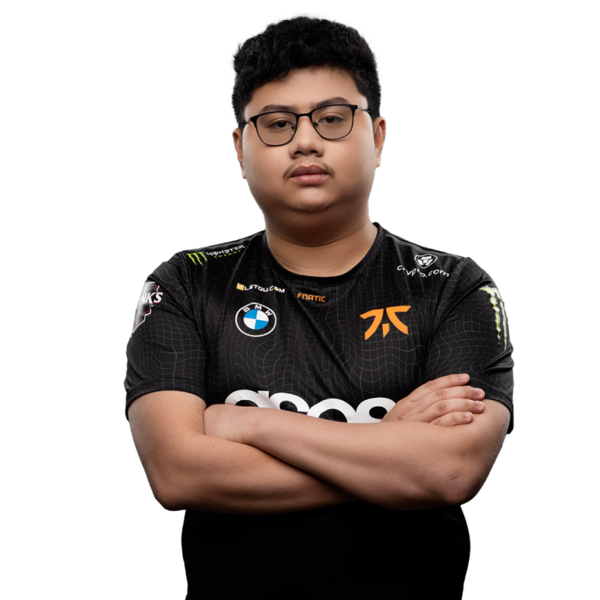
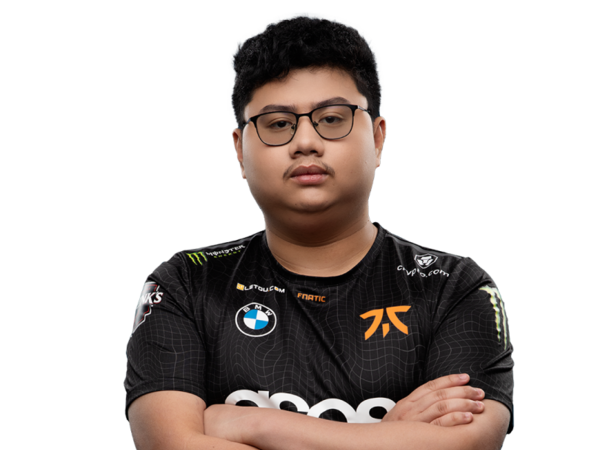
* added 1 streamer * updated image of 1 streamer

diff --git a/resources/js/components/Home/StreamerSection.vue b/resources/js/components/Home/StreamerSection.vue
@@ -138,7 +138,7 @@ export default {
                     id: 1,
                     name: 'Gabbi',
                     nameIcon: '',
-                    tags: ['Professional Dota 2 Player', 'Position 1 | Carry', 'Major Champion', 'WESG Champion'],
+                    tags: ['Professional Dota 2 Player', 'Position 1 | Carry', 'Major Champion', 'TI Player', 'WESG Champion'],
                     description: 'Filipino Dota 2 core player known for explosive teamfight impact and international success.',
                     followers: 80800,
                     kickLink: 'https://kick.com/gabbidoto',
@@ -150,7 +150,7 @@ export default {
                     id: 2,
                     name: 'Kuku',
                     nameIcon: '',
-                    tags: ['GodFather of PH Dota 2','Professional Dota 2 Player', 'Position 5 | Hard Support', 'WESG Champion'],
+                    tags: ['GodFather of PH Dota 2','Professional Dota 2 Player', 'Position 5 | Hard Support', 'Top 7 TI', 'WESG Champion'],
                     description: 'Veteran Filipino Dota 2 captain known for elite leadership, strong shot-calling, and international success.',
                     followers: 69000,
                     kickLink: 'https://kick.com/kukudota2',
@@ -162,14 +162,14 @@ export default {
                     id: 3,
                     name: 'Armel',
                     nameIcon: '',
-                    tags: ['Professional Dota 2 Player', 'Position 2 | Midlaner', 'Major Champion', 'WESG Champion'],
+                    tags: ['Professional Dota 2 Player', 'Position 2 | Midlaner', 'Major Champion', 'TI Player', 'WESG Champion'],
                     description: 'Filipino Dota 2 mid player known for high-level mechanics and international success.',
                     followers: 66600,
                     kickLink: 'https://kick.com/armeldoto',
                     websiteLink: 'https://armeldota.com/',
                     isLive: false,
                     icon: 'fab fa-kickstarter',
-                    image: 'images/kukuys_streamer/armel.jpg'
+                    image: 'images/kukuys_streamer/armel.png'
                 },{
                     id: 4,
                     name: 'DJ',
@@ -306,7 +306,7 @@ export default {
                     id: 15,  
                     name: 'Natsumi',
                     nameIcon: '',
-                    tags: ['Professional Dota 2 Player', 'Position 1 | Carry', 'Riyadh Player', 'Carry for OG'],
+                    tags: ['Professional Dota 2 Player', 'Riyadh Player', 'Carry for OG'],
                     description: 'Filipino Dota 2 carry known for sharp mechanics, strategic farming, and international experience.',
                     followers: 33600,
                     kickLink: 'https://kick.com/natsumidota',
@@ -318,7 +318,7 @@ export default {
                     id: 16,  
                     name: 'Nikko',
                     nameIcon: '',
-                    tags: ['Professional Dota 2 Player', 'Position 3 | Offlane', 'Riyadh Player', 'Offlane for OG'],
+                    tags: ['Professional Dota 2 Player', 'Riyadh Player', 'Offlane for OG'],
                     description: 'Filipino Dota 2 offlaner recognized for impactful teamfight presence and international experience.',
                     followers: 24200,
                     kickLink: 'https://kick.com/nikkodota2',
@@ -330,7 +330,7 @@ export default {
                     id: 17,  
                     name: 'Skem',
                     nameIcon: '',
-                    tags: ['Professional Dota 2 Player', 'Position 5 | Hard Support', 'TI Player', 'Riyadh Player', 'Hard Support for OG'],
+                    tags: ['Professional Dota 2 Player', 'TI Player', 'Riyadh Player', 'Hard Support for OG'],
                     description: 'Filipino Dota 2 support known for smart plays, solid vision control, and international experience.',
                     followers: 14700,
                     kickLink: 'https://kick.com/skemdota123',
@@ -339,7 +339,19 @@ export default {
                     icon: 'fab fa-kickstarter',
                     image: 'images/kukuys_streamer/skem.jpg'
                 },{
-                    id: 18,  
+                    id: 18,
+                    name: 'Tims',
+                    nameIcon: '',
+                    tags: ['Professional Dota 2 Player', 'Major Champion', 'Top 7 TI', 'WESG Champion', 'Soft Support for OG'],
+                    description: 'Filipino Dota 2 mid player known for high-level mechanics and international success.',
+                    followers: 27200,
+                    kickLink: 'https://kick.com/timsdota',
+                    websiteLink: '',
+                    isLive: false,
+                    icon: 'fab fa-kickstarter',
+                    image: 'images/kukuys_streamer/tims.png'
+                },{
+                    id: 19,  
                     name: 'Jaunuel',
                     nameIcon: '',
                     tags: ['Professional Dota 2 Player', 'Position 5 | Hard Support', 'TI Player', 'Riyadh Player', ],
@@ -351,7 +363,7 @@ export default {
                     icon: 'fab fa-kickstarter',
                     image: 'images/kukuys_streamer/jaunuel.png'
                 },{
-                    id: 19,  
+                    id: 20,  
                     name: 'Jing',
                     nameIcon: '',
                     tags: ['Professional Dota 2 Player', 'Position 5 | Hard Support', 'TI Player'],
@@ -363,7 +375,7 @@ export default {
                     icon: 'fab fa-kickstarter',
                     image: 'images/kukuys_streamer/jing.jpg'
                 },{
-                    id: 20,  
+                    id: 21,  
                     name: 'JtzCast',
                     nameIcon: '',
                     tags: ['Professional Caster' , 'Dota 2 Streamer', 'Ex Manager of Team Kukuys', 'Kick Streamer'],
@@ -375,7 +387,7 @@ export default {
                     icon: 'fab fa-kickstarter',
                     image: 'images/kukuys_streamer/jtz.jpg'
                 },{
-                    id: 21,  
+                    id: 22,  
                     name: 'Nevertheless',
                     nameIcon: '',
                     tags: ['Manager of Team Tekla' , 'Dota 2 Streamer', 'Kick Streamer'],
@@ -387,7 +399,7 @@ export default {
                     icon: 'fab fa-kickstarter',
                     image: 'images/kukuys_streamer/kyle.jpg'
                 },{
-                    id: 22,  
+                    id: 23,  
                     name: 'LashSegway28',
                     nameIcon: '',
                     tags: ['Kick Streamer', 'Dota 2 Streamer', 'Dota 2 Caster'],
@@ -399,7 +411,7 @@ export default {
                     icon: 'fab fa-kickstarter',
                     image: 'images/kukuys_streamer/lash.jpg'
                 },{
-                    id: 23,  
+                    id: 24,  
                     name: 'JaboleroDota',
                     nameIcon: '',
                     tags: ['Kick Streamer', 'Dota 2 Streamer', 'IRL Streamer'],
@@ -411,7 +423,7 @@ export default {
                     icon: 'fab fa-kickstarter',
                     image: 'images/kukuys_streamer/jabolero.jpg'
                 },{
-                    id: 24,  
+                    id: 25,  
                     name: 'Hubrisss',
                     nameIcon: '',
                     tags: ['Kick Streamer', 'Variety Streamer', 'GTA RP Streamer'],
@@ -423,7 +435,7 @@ export default {
                     icon: 'fab fa-kickstarter',
                     image: 'images/kukuys_streamer/hubris.png'
                 },{
-                    id: 25,  
+                    id: 26,  
                     name: 'Chupaeng',
                     nameIcon: '',
                     tags: ['Kick Streamer', 'Variety Streamer', 'GTA RP Streamer'],
@@ -435,7 +447,7 @@ export default {
                     icon: 'fab fa-kickstarter',
                     image: 'images/kukuys_streamer/chupaeng.jpg'
                 },{
-                    id: 26,  
+                    id: 27,  
                     name: 'SunshineMelodyyy',
                     nameIcon: '',
                     tags: ['Kick Streamer', 'Variety Streamer', 'GTA RP Streamer'],
@@ -447,7 +459,7 @@ export default {
                     icon: 'fab fa-kickstarter',
                     image: 'images/kukuys_streamer/sunshine.jpg'
                 },{
-                    id: 27,  
+                    id: 28,  
                     name: 'Joevy',
                     nameIcon: '',
                     tags: ['Dota 2 Streamer', 'Manager of Xctn'],
@@ -459,7 +471,7 @@ export default {
                     icon: 'fab fa-kickstarter',
                     image: 'images/kukuys_streamer/joevy.png'
                 },{
-                    id: 28,  
+                    id: 29,  
                     name: 'RexhaScarlett',
                     nameIcon: '',
                     tags: ['Kick Streamer', 'Variety Streamer'],
@@ -471,7 +483,7 @@ export default {
                     icon: 'fab fa-kickstarter',
                     image: 'images/kukuys_streamer/rexha.png'
                 },{
-                    id: 29,  
+                    id: 30,  
                     name: 'Sherickab',
                     nameIcon: '',
                     tags: ['Kick Streamer', 'Variety Streamer'],
@@ -483,7 +495,7 @@ export default {
                     icon: 'fab fa-kickstarter',
                     image: 'images/kukuys_streamer/sherickab.jpg'
                 },{
-                    id: 30,  
+                    id: 31,  
                     name: 'Moodyemel',
                     nameIcon: '',
                     tags: ['Kick Streamer', 'Variety Streamer'],
@@ -495,7 +507,7 @@ export default {
                     icon: 'fab fa-kickstarter',
                     image: 'images/kukuys_streamer/moodyemel.png'
                 },{
-                    id: 31,  
+                    id: 32,  
                     name: 'Aerein',
                     nameIcon: '',
                     tags: ['Kick Streamer', 'Variety Streamer'],
@@ -507,7 +519,7 @@ export default {
                     icon: 'fab fa-kickstarter',
                     image: 'images/kukuys_streamer/ela.png'
                 },{
-                    id: 32,  
+                    id: 33,  
                     name: 'PeachyBunny',
                     nameIcon: '',
                     tags: ['Kick Streamer', 'Variety Streamer'],
